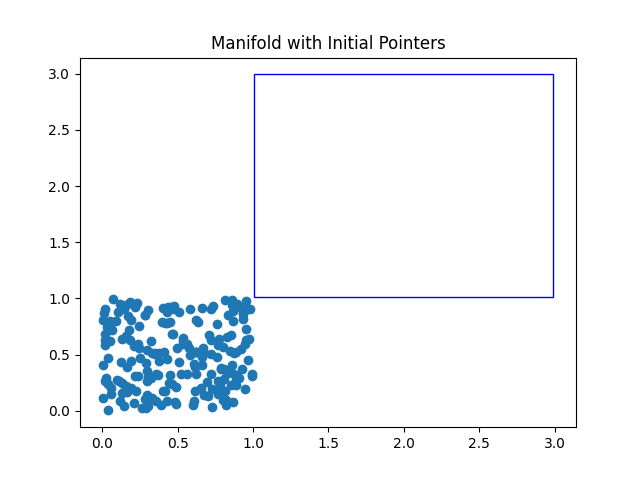
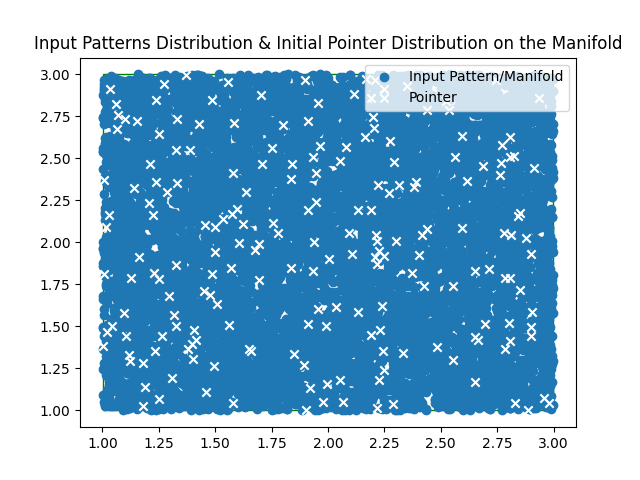
Switched to Initial Uniform Distribution of Pointers over the Manifold, Adopted for better manifold representation with higher number of input patterns, Visualizations updated.

diff --git a/simulations/simple_square.py b/simulations/simple_square.py
@@ -9,10 +9,15 @@ import matplotlib.patches as patches
 import trn
 
 """ Configuration """
+# Square Manifold Parameters
+xmin, ymin = 1.0, 1.0
+xmax, ymax = 3.0, 3.0
+# Number of samples to sample from input pattern space
+V_N = 10000
 # Number of pointers
 N = 200
 # Initial pointer distribution
-W_distrib = distribs_general.random
+W_distrib = distribs_general.uniform
 # Maximum number of iterations
 t_max = 200 * N
 # Lifetime and its scheduler
@@ -55,7 +60,7 @@ def visualize_manifold(V):
 
     curr_ax.scatter(V[:, 0], V[:, 1])
 
-    plt.title("Manifold")
+    plt.title("Input Patterns Distribution of the Manifold")
 
 
 def visualize_init_W(V, W):
@@ -63,9 +68,12 @@ def visualize_init_W(V, W):
 
     square = patches.Rectangle((xmin, ymin), w, h, linewidth=1, edgecolor="g", facecolor="none")
     curr_ax.add_patch(square)
-    curr_ax.scatter(W[0, :], W[1, :])
+    curr_ax.scatter(V[:, 0], V[:, 1], label="Input Pattern/Manifold")
+    curr_ax.scatter(W[0, :], W[1, :], color="white", marker='x', label="Pointer")
 
-    plt.title("Manifold with Initial Pointers")
+    curr_ax.legend(loc="upper right", numpoints=1)
+
+    plt.title("Input Patterns Distribution & Initial Pointer Distribution on the Manifold")
 
 
 def visualize_trn(V, W, C):
@@ -73,8 +81,6 @@ def visualize_trn(V, W, C):
 
     square = patches.Rectangle((xmin, ymin), w, h, linewidth=1, edgecolor="g", facecolor="none")
     curr_ax.add_patch(square)
-
-    curr_ax.scatter(W[0, :], W[1, :])
 
     x1s, y1s = [], []
     x2s, y2s = [], []
@@ -104,20 +110,23 @@ def visualize_trn(V, W, C):
         x2s.append(x2)
         y2s.append(y2)
 
-    curr_ax.plot(x1s, y1s, x2s, y2s, marker='o', color='b')
+    curr_ax.scatter(V[:, 0], V[:, 1], label="Input Pattern/Manifold")
+    curr_ax.plot(x1s, y1s, x2s, y2s, marker="x", markerfacecolor="orange", markeredgecolor="white", label="Pointer")
 
-    plt.title("Manifold with Adapted Pointers")
+    curr_ax.legend(loc="upper right", numpoints=1)
+
+    plt.title("Adapted Pointer Distribution & TRN on the Manifold")
 
 
 def main():
     # Creating the dataset
-    V = datasets.generate_square_manifold(M=200)
+    V = datasets.generate_square_manifold(M=V_N, xlow=xmin, xhigh=xmax, ylow=ymin, yhigh=ymax)
     # Visualizing manifold with the help of input patterns.
     visualize_manifold(V)
     plt.show()
 
     # Setting up pointers using initial distribution
-    W = W_distrib(V.shape[1], N)
+    W = W_distrib(V.shape[1], N, dlows=[xmin, ymin], dhighs=[xmax, ymax])
 
     # Visualizing manifolds with initial pointers
     visualize_init_W(V, W)

diff --git a/distributions/general.py b/distributions/general.py
@@ -1,12 +1,34 @@
 import numpy as np
 
 
-def random(D, N):
+def random(D, N, dlows=None, dhighs=None):
     """
     Randomly distributes the N pointers in the embedding space of dimension D.
     :param D: The dimension of the embedding space.
     :param N: Number of pointers to return
+    :param dlows: Added for compliance with other functions. Not used.
+    :param dhighs: Added for compliance with other functions. Not used.
     :return: Numpy array of dimensions (D, N).
     """
 
     return np.random.rand(D, N)
+
+
+def uniform(D, N, dlows, dhighs):
+    """
+    Uniformly distributes the N pointers in the embedding space of dimension D.
+    :param D: The dimension of the embedding space
+    :param N: Number of pointers to return
+    :param dlows: A list of low values to be used in the distribution for every i'th dimension of D dimensions. Should be of length D
+    :param dhighs: A list of high values to be used in the distribution for every i'th dimension of D dimensions. Should be of length D.
+    :return: Numpy array of dimensions (D, N)
+    """
+
+    d = None
+    for i in range(D):
+        if d is None:
+            d = np.random.uniform(low=dlows[i], high=dhighs[i], size=(1, N))
+        else:
+            d = np.concatenate((d, np.random.uniform(low=dlows[i], high=dhighs[i], size=(1, N))), axis=0)
+
+    return d

diff --git a/simulations/confhelpers/datasets.py b/simulations/confhelpers/datasets.py
@@ -6,16 +6,20 @@ DATASET_MAPPINGS = {
 }
 
 
-def generate_square_manifold(M=200):
+def generate_square_manifold(M=200, xlow=1.0, ylow=1.0, xhigh=3.0, yhigh=3.0):
     """
     Generates a manifold that is encompassed by a square in 2D
-    :param M: The number of input patterns to generate.
+    :param M: The number of input patterns to generate
+    :param xlow: The low value to be used w.r.t. x-axis in the uniformly distributed input patterns
+    :param ylow: The low value to be used w.r.t. y-axis in the uniformly distributed input patterns
+    :param xhigh: The high value to be used w.r.t. x-axis in the uniformly distributed input patterns
+    :param yhigh: The high value to be used w.r.t. y-axis in the uniformly distributed input patterns
     :return: Numpy array with dimensions (M, 2)
     """
     return np.concatenate(
         (
-            np.random.uniform(low=1.0, high=3.0, size=(1, M)),
-            np.random.uniform(low=1.0, high=3.0, size=(1, M))
+            np.random.uniform(low=xlow, high=xhigh, size=(1, M)),
+            np.random.uniform(low=ylow, high=yhigh, size=(1, M))
         ),
         axis=0
     ).T
